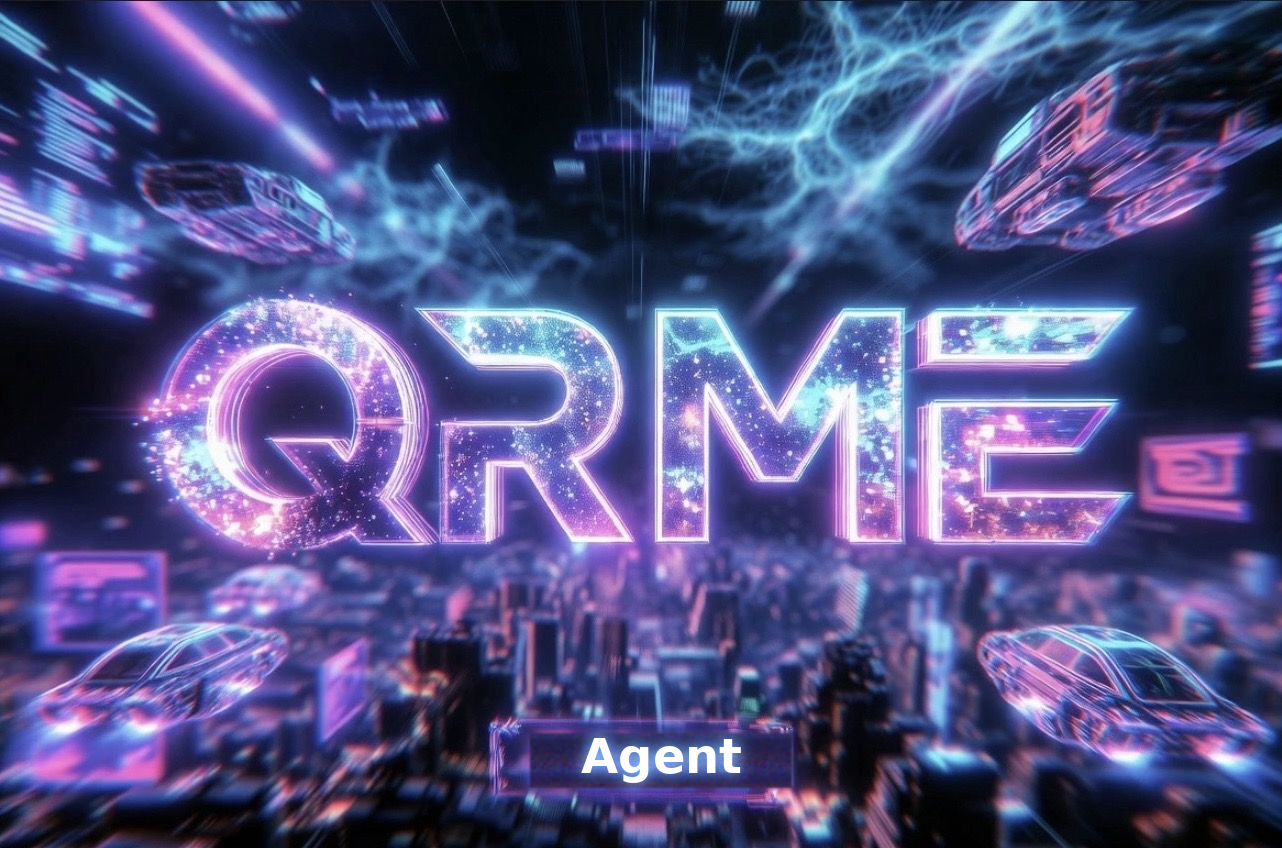
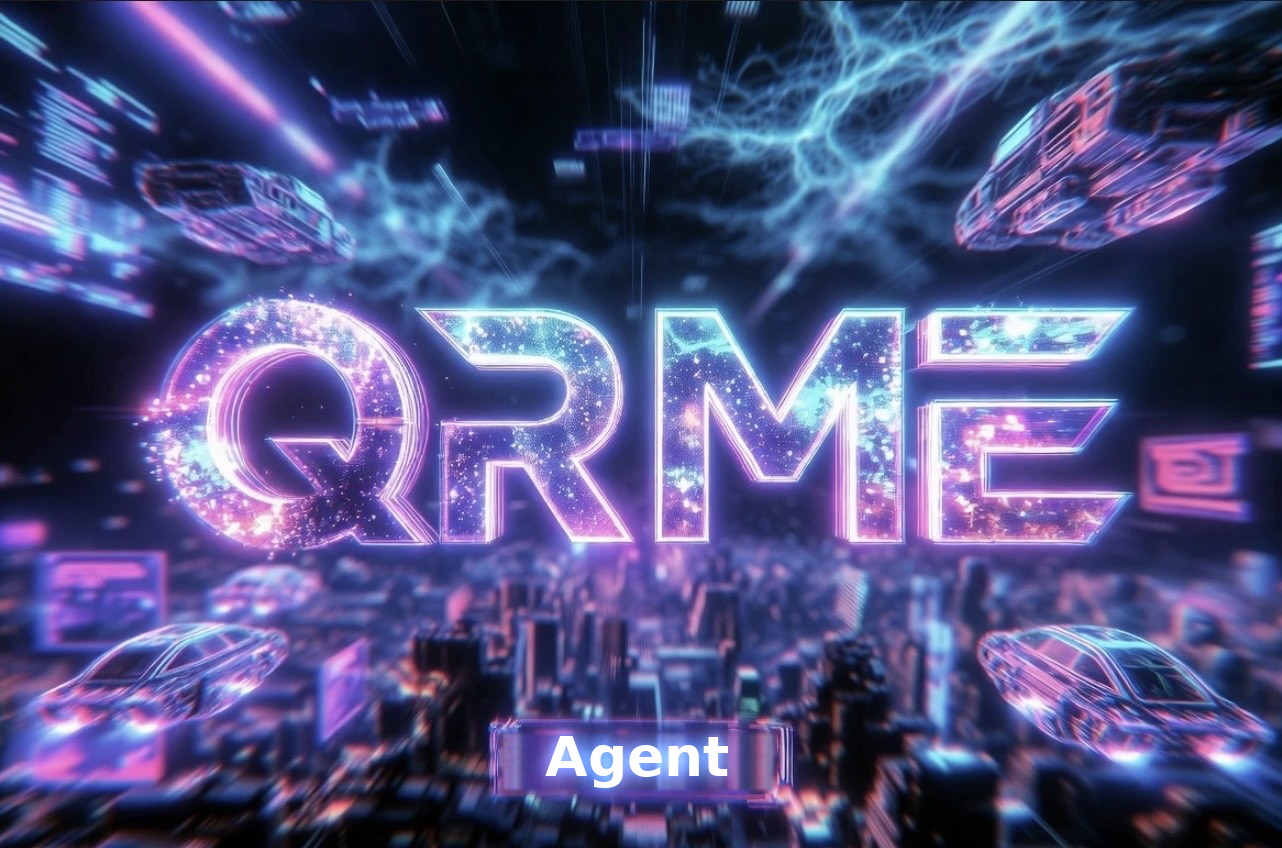
The Agent mark, cropped to a box and its word set properly
Three corrections to the menu icon, each one a field note.

**The crop is a box.** It was the wordmark and plate as a 1.9:1 banner,
which needed the tab's cell widened to 92px to keep the art from being
crushed. Cropped Q-through-E with the plate underneath it is 1.21:1 --
36px wide at tab height, an ordinary cell, and the widening comes out.

**The E was clipped.** The first box stopped at x=1108 and the wordmark
runs to 1123, so it took a slice off the letter. The right edge moved
past it with air behind.

**The word was small, off-centre and sitting high.** All three came from
the same mistake: the plate's own geometry was read off a magnified grid
by eye, and the top edge was read at y=703 when it is nearer 718. Every
placement computed from that number sat about 7px high, and two attempts
to fix it by adjusting the text made it worse because the frame they
were measured against was wrong.

The plate's interior was found instead by walking a column down through
it and watching where the brightness steps: it lights up at 718 and
falls away by 800, so the interior is y 732-792, and FUTURE's own ink sat
738-783 -- centre 760, not the 746 in use. Setting the word on that
centre and sizing it to the interior gives 228 x 58 in a 275 x 60 space,
against the 161-wide word that was there before.

Measure the frame before placing the thing inside it, and measure it
from the pixels rather than from a look.

Claude-Session: https://claude.ai/code/session_015e8tKrkr36nt7UTKUPtELY

Changed region(s): [[0.3744, 0.8585, 0.624, 0.9505]]

diff --git a/app/src/styles.css b/app/src/styles.css
@@ -67,16 +67,15 @@ nav { display: flex; flex-direction: column; gap: 4px; flex: 1; }
 .nav-item:hover { color: var(--txt); background: rgba(255,255,255,0.04); }
 .nav-item.active { color: #fff; background: rgba(123,92,255,0.18); box-shadow: inset 3px 0 0 var(--brand); }
 .nav-icon { width: 18px; text-align: center; }
-/* The one tab whose mark is a picture. It is the QRME poster cropped from
-   the Q to the E with its plate, which is a 1.9:1 banner rather than a glyph,
-   so the cell is given the width instead of the art being squeezed into a
-   square. At the 17px the other icons use it renders 32px wide and the
-   lettering is unreadable — the same failure the sibling product's menu icon
-   was redrawn to fix — so it gets a taller slot, and the nav already scrolls
-   sideways when the row runs out of room.
+/* The one tab whose mark is a picture: the QRME poster cropped Q-through-E
+   with its plate, near square at 1.21:1. An earlier crop was a 1.9:1 banner
+   and needed its cell widened to 92px to avoid being crushed; the box needs
+   none of that — 30px tall is 36px wide, which sits in an ordinary cell.
 
-   The word under the tab is the real label and is translated; the plate in
-   the picture is decoration, which is why it may be small. */
+   It still gets a taller slot than the 17px glyphs beside it, because at
+   glyph height the lettering is mud — the same failure the sibling product's
+   menu icon was redrawn to fix. The word under the tab is the real label and
+   is translated; the plate inside the picture is decoration. */
 .nav-art { width: auto; }
 .nav-art img { height: 26px; width: auto; display: block; border-radius: 5px; }
 
@@ -274,11 +273,9 @@ button.danger { background: rgba(224,104,122,0.14) !important; color: var(--red)
   }
   .nav-item.active { box-shadow: none; }
   .nav-icon { width: auto; font-size: 17px; }
-  /* 30px rather than 17: at icon height this banner is 32px wide and reads
-     as noise. Its cell is widened to match so it does not crush the tabs
-     beside it — `nav` is already `overflow-x: auto` below. */
+  /* 30px rather than 17: at glyph height the lettering is unreadable. The
+     box is 36px wide there, so it needs no extra cell width. */
   .nav-art img { height: 30px; }
-  .nav-item:has(.nav-art) { min-width: 92px; }
 
   .content {
     grid-row: 1; padding: 18px 16px 22px;
